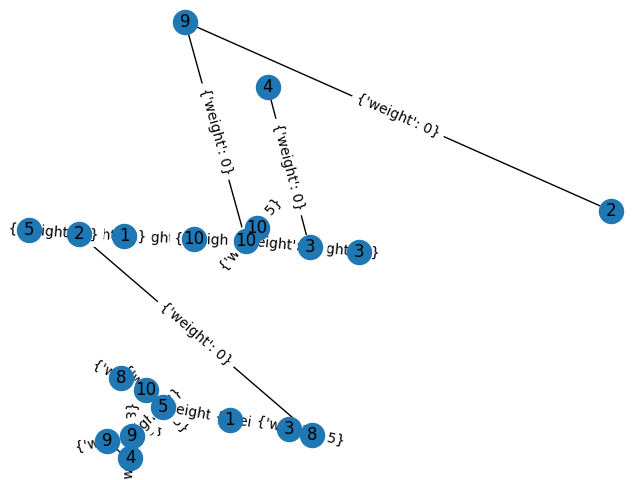
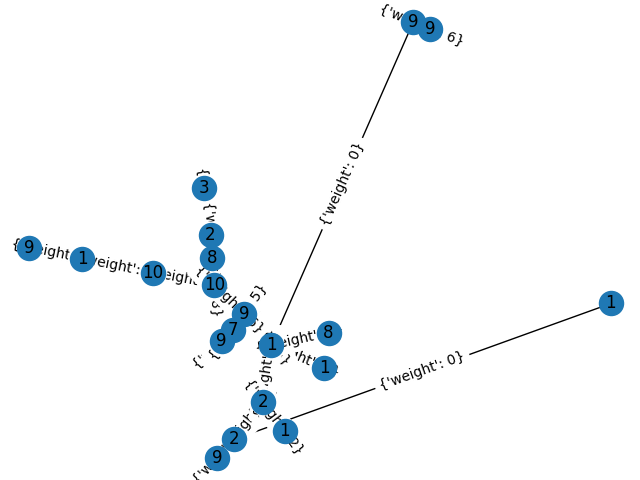
better organization

diff --git a/currently_in_use/driver.py b/currently_in_use/driver.py
@@ -4,6 +4,7 @@ import greedy_approx_algorithms as greedy
 import networkx as nx
 import matplotlib.pyplot as plt
 import sys
+import linear_program as lp
 
 def runTests():
     #create cluster greaph
@@ -11,7 +12,7 @@ def runTests():
     G = cc.createClusterGraph(20, 10)
     #compute payoff for greedy DP
     max_val_greedyDP = dp.greedyDP(G, G.number_of_nodes(), 3)
-    sys.stdout = open("currently_in_use/results_details.txt", "w")
+    sys.stdout = open("currently_in_use/results_details.txt", "a")
     #print info about the graph
     print_info(G)
     print("\nGreedy DP Payoff: ", max_val_greedyDP)
@@ -23,11 +24,16 @@ def runTests():
     #compute payoff for recursive DP
     payoff_root, payoff_no_root = dp.runRecursiveDP(G, 3)
     print("Recursive DP payoff: \n Root: ", payoff_root, "\n No Root: ", payoff_no_root)
+
+    lp.lp_setup(G)
     sys.stdout.close()
     with open('currently_in_use/compare_results.txt', 'a') as results:
         results.write('\n'+ str(max_val_greedyDP[0]) + '\t\t\t' + str(payoff) + '\t\t\t' + str(payoff_root) + ' ' + str(payoff_no_root))
     results.close()
-    #print graph
+    printGraph(G)
+
+""" display graph """
+def printGraph(G):
     plt.figure(2)
     pos = nx.spring_layout(G)
     nx.draw(G, pos)
@@ -41,9 +47,14 @@ def runTests():
     plt.show()
 
 def print_info(G):
+    print('\nNext Test:\n')
     data = G.edges.data()
+    weights = G.nodes.data('weight')
+    print('Node weights: ')
+    for node in weights:
+        print("Node:", node[0], "Weight:", node[1])
     for item in data:
-       print("Edge between", item[0], item[1], " Weight: ", item[2]['weight'])
+        print("Edge between", item[0], item[1], " Weight: ", item[2]['weight'])
 
 #main function, used for calling things
 def main():

diff --git a/currently_in_use/linear_program.py b/currently_in_use/linear_program.py
@@ -1,29 +1,22 @@
 import pulp
-import dynamic_programming_cleaned as dp
-
-def get_input_graph():
-    """
-    Make a cluster graph to run the lp on
-    """
-    G_cluster, G_cluster2, tree_decomp = dp.testOriginaltoCluster(12,0.5)
-    dp.print_info(G_cluster2)
-    return G_cluster2
+import create_clusters as cc
 
 def lp_setup(G):
     """
     Set up our LP based on the cluster data. We want each cluster and rejecting node to be a variable, 
     with the constraint that if you pick a cluster you must pick the rejecting nodes it is connected to.
     """
+    NODES = EDGES = range(G.number_of_nodes())
     maximize_payoff = pulp.LpProblem("Overexposure_Maximization", pulp.LpMaximize)
+    choices = pulp.LpVariable.dicts("Choice", (NODES), cat="Integer")
     cluster_variables = []
     edge_variables = []
     # loop through edge data to make our constraints for the lp
     for edge_data in G.edges.data():
-        rej_node = edge_data[2]['data'][0]
+        rej_node = edge_data[2]['weight']
         if edge_data[0] not in cluster_variables:
             continue
 
-get_input_graph()
 # define our LP problem
 
 """
